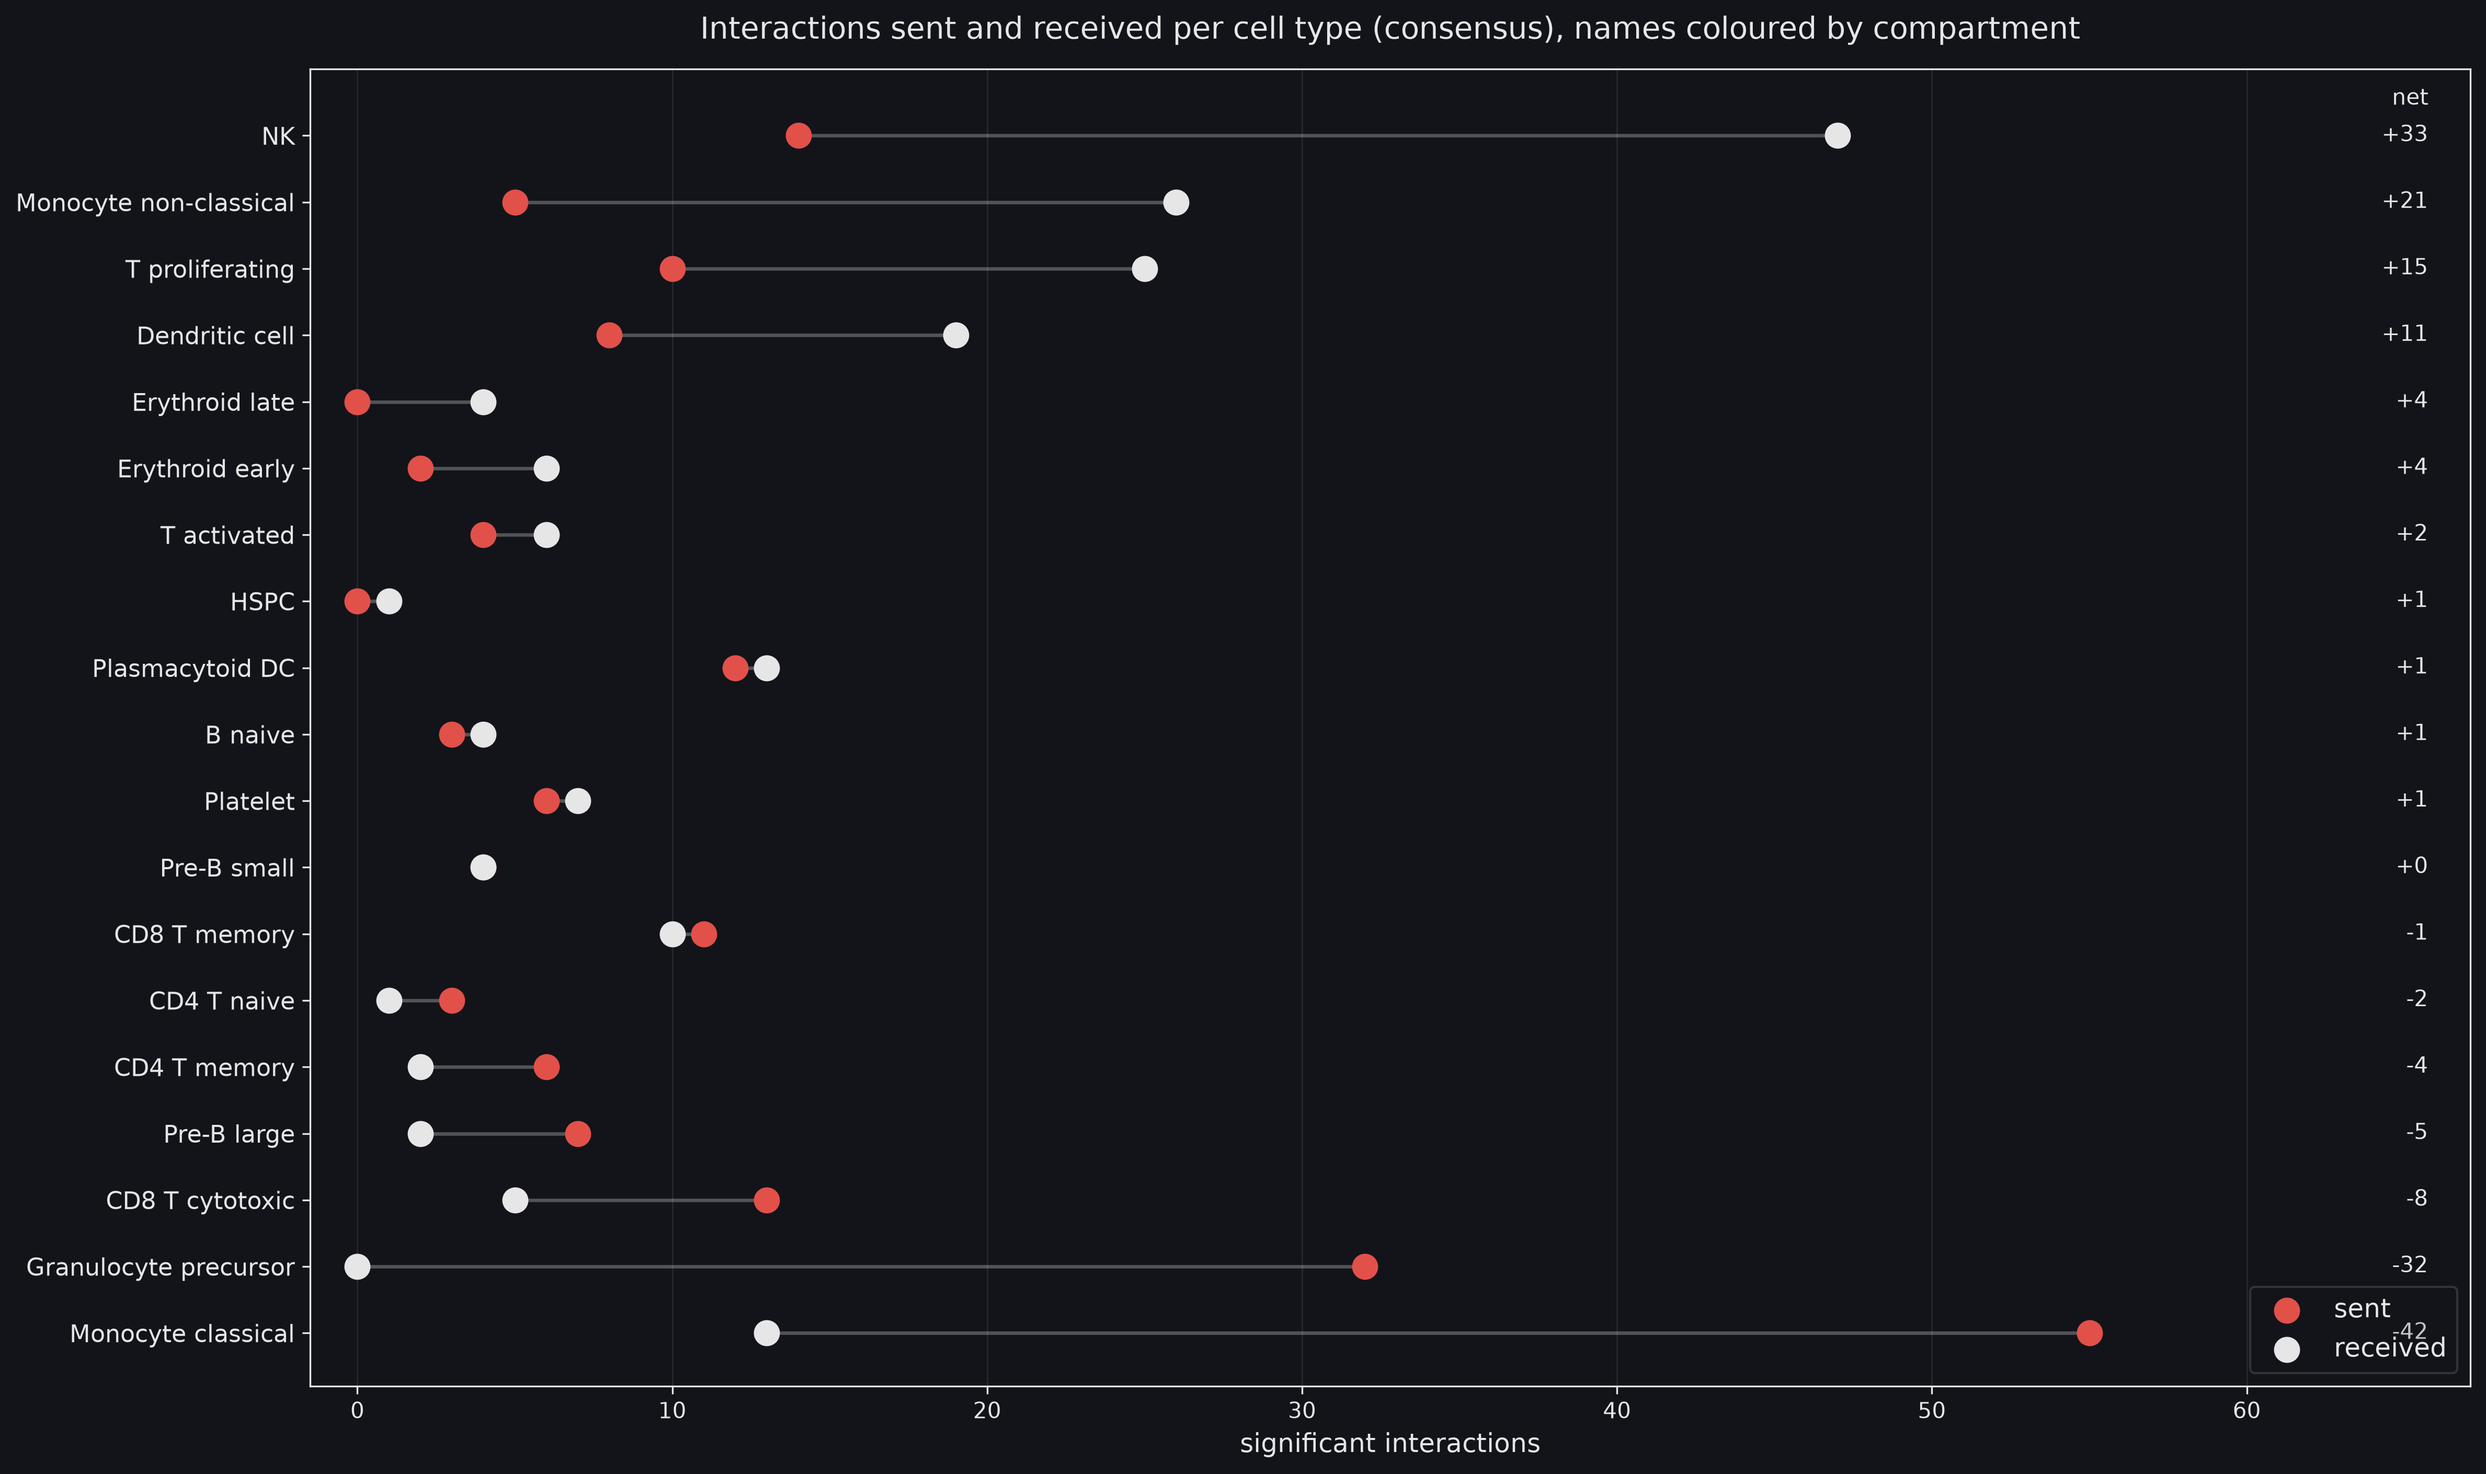
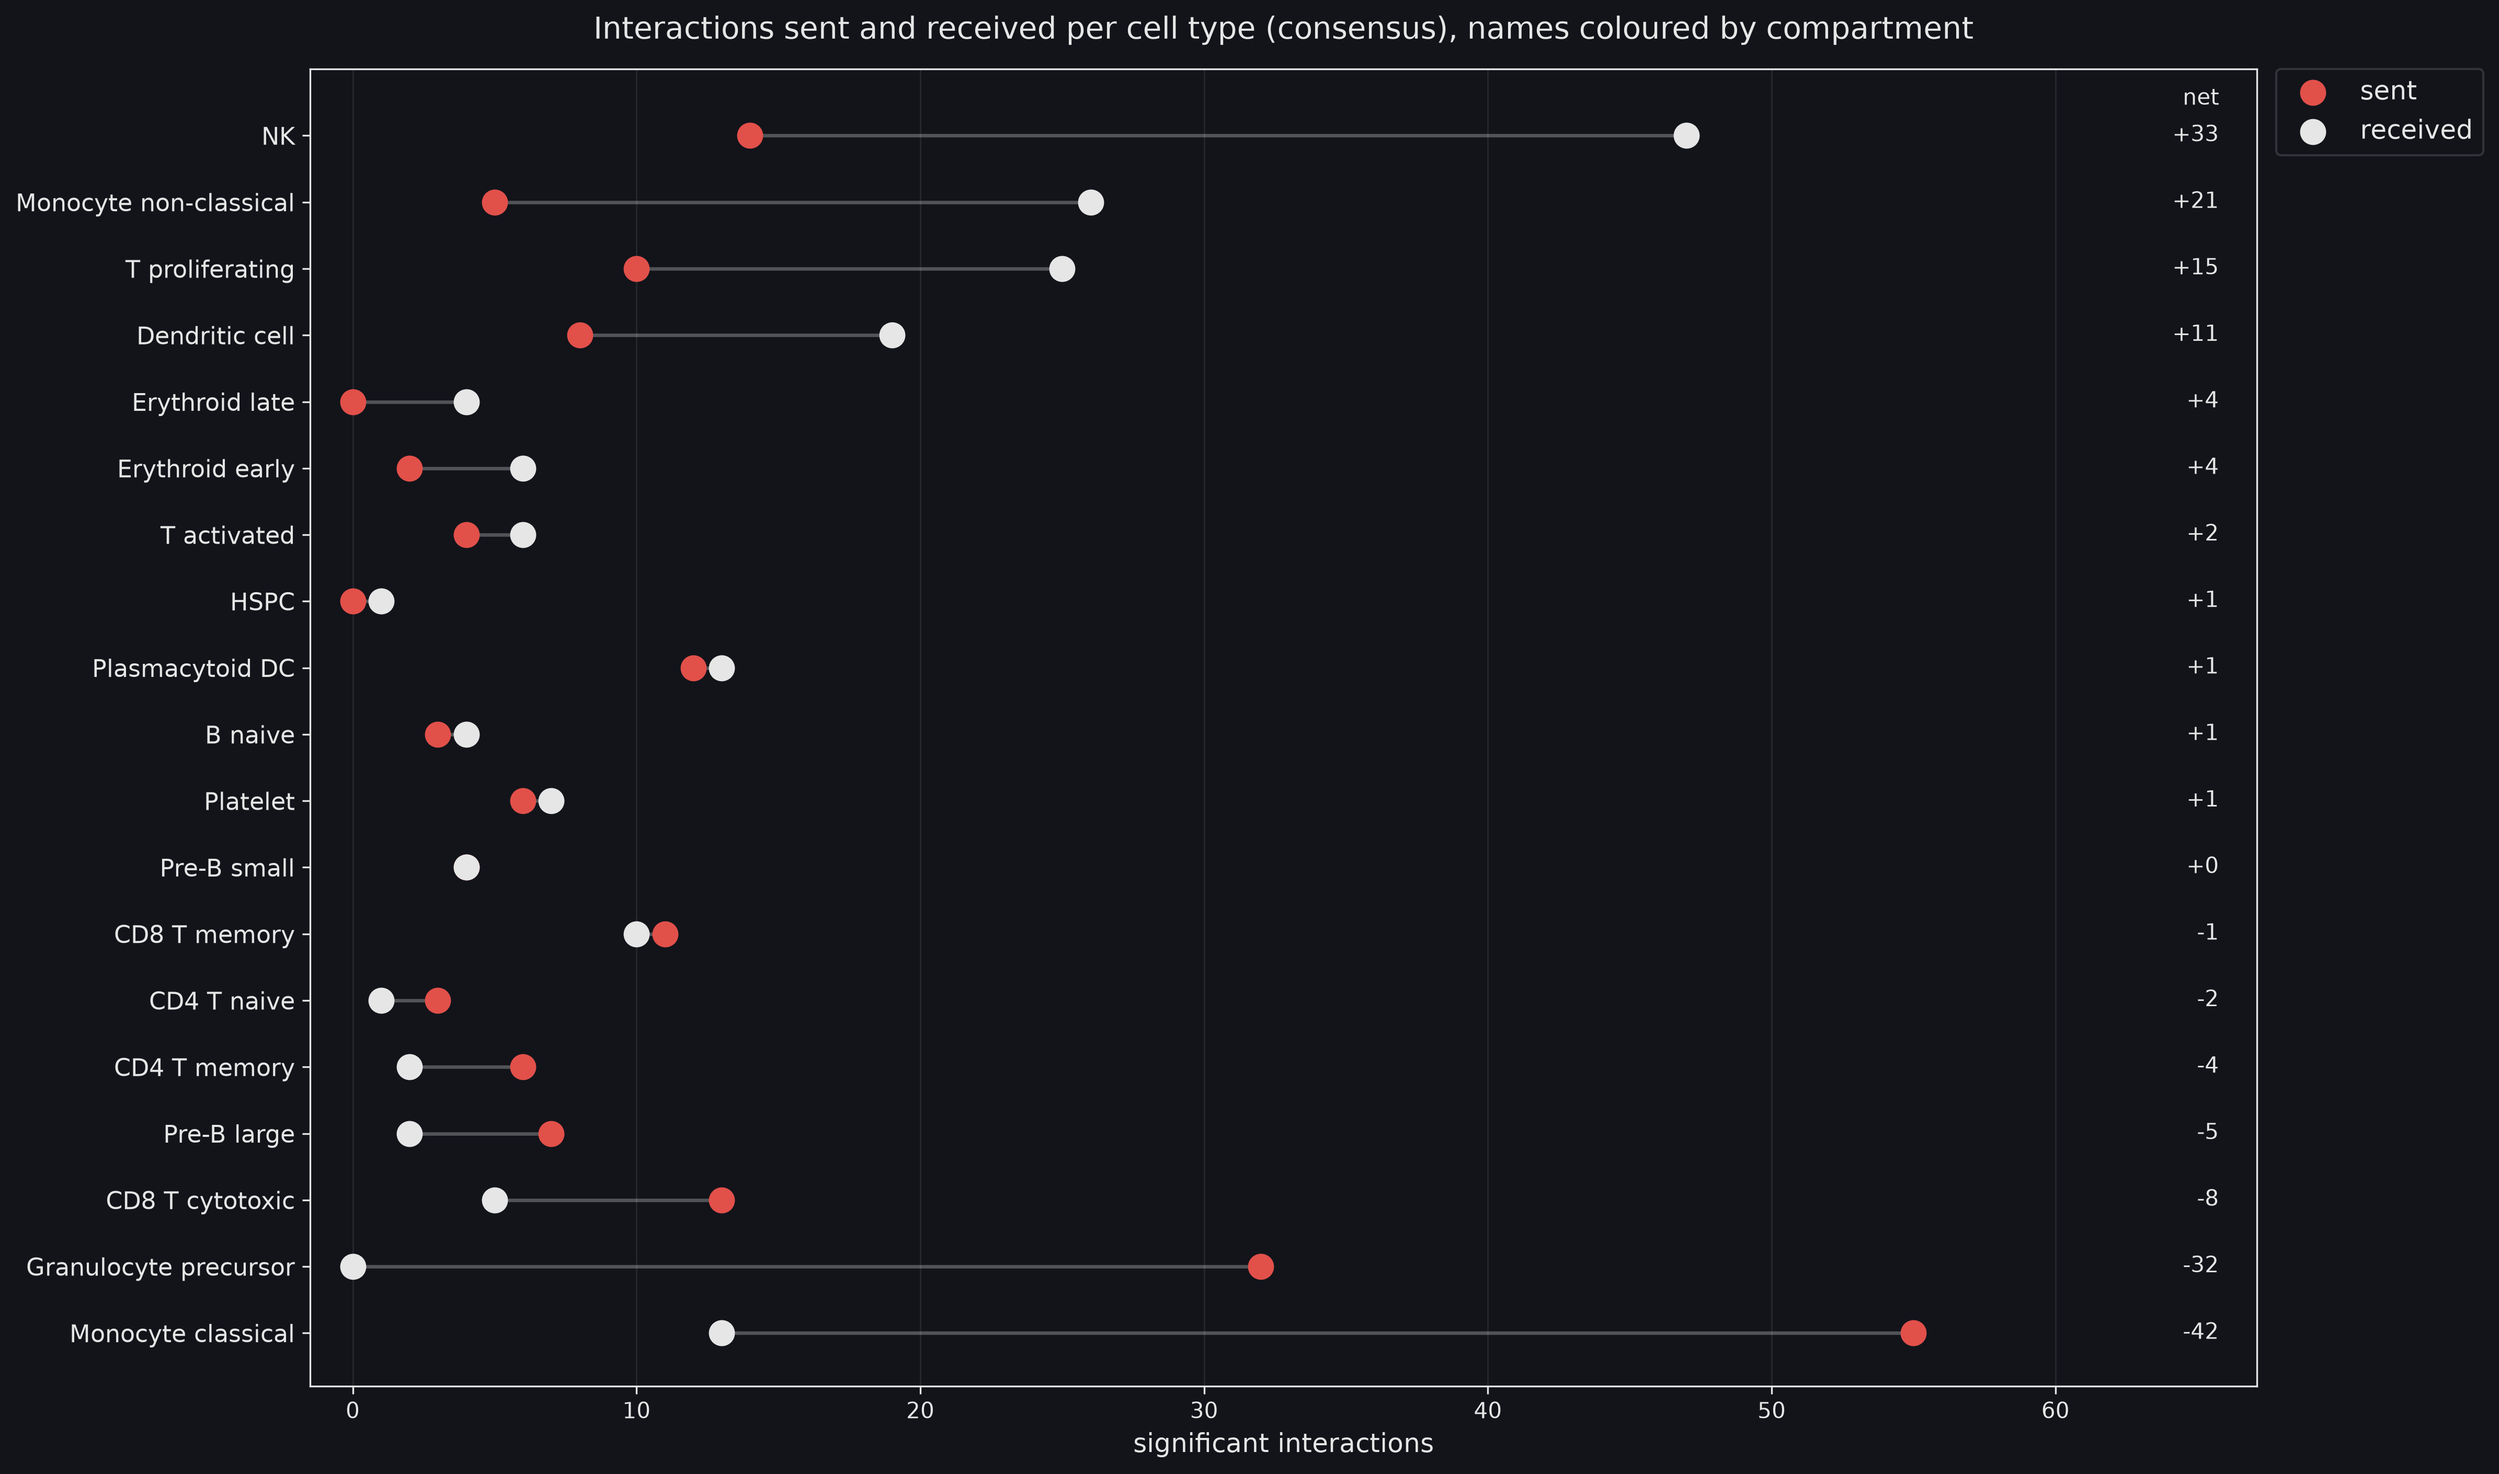
Move sources-targets legend out of the plot area; redraw figure

diff --git a/src/cell_cell_communication/cell_communication_report.py b/src/cell_cell_communication/cell_communication_report.py
@@ -582,10 +582,13 @@ def plot_sources_targets(counts: pd.DataFrame) -> Figure:
         f"names coloured by compartment",
         color = ccu.DARK_FOREGROUND, fontsize = TITLE_FONTSIZE, pad = 14,
     )
-    ax.legend(fontsize = LEGEND_FONTSIZE, loc = "lower right", framealpha = 0.15)
+    ax.legend(
+        fontsize = LEGEND_FONTSIZE, loc = "upper left", bbox_to_anchor = (1.01, 1.0),
+        borderaxespad = 0, framealpha = 0.15,
+    )
 
     ccu.style_dark(fig)
-    fig.subplots_adjust(left = 0.16, right = 0.97, top = 0.92, bottom = 0.08)
+    fig.subplots_adjust(left = 0.16, right = 0.89, top = 0.92, bottom = 0.08)
     return fig
 
 
